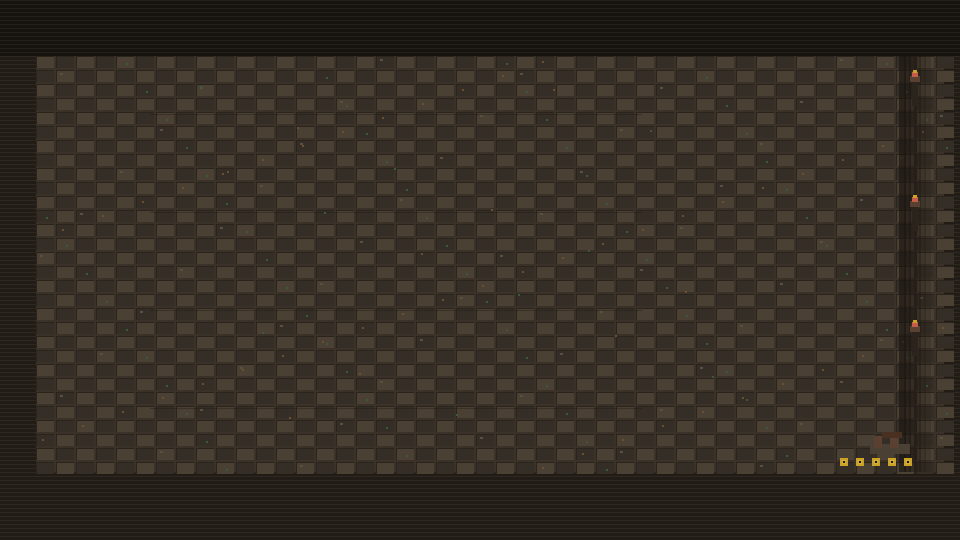
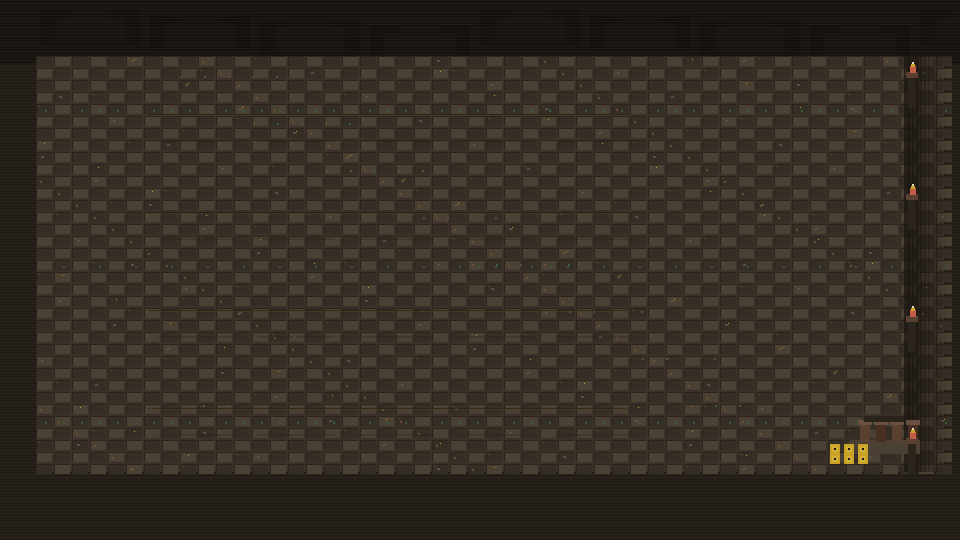
v1.5.0 銀樓防衛：場景四層／加厚場景／停牌符精靈

diff --git a/js/render.js b/js/render.js
@@ -1,6 +1,6 @@
 /**
- * 銀樓防衛 — Canvas 繪製 v1.4.0
- * v1.4：擊破墨塵／暴擊斬線；場景 PNG 可選；敵方正式精靈齊
+ * 銀樓防衛 — Canvas 繪製 v1.5.0
+ * v1.5：場景四層 ground→mid→wall→props；halt_seal PNG；擊破／暴擊
  */
 (function (global) {
   const { COLORS, GRID, CORE, HEROES, ENEMIES, MAX_STAR, upgradeLabel } = global.YD;
@@ -150,24 +150,44 @@
     return c;
   }
 
+  function sceneReady(name) {
+    try {
+      const Spr = global.YDSprites;
+      return !!(Spr && Spr.getScene && Spr.getScene(name));
+    } catch (_) {
+      return false;
+    }
+  }
+
+  function drawSceneLayer(ctx, name, w, h) {
+    try {
+      const Spr = global.YDSprites;
+      const img = Spr && Spr.getScene && Spr.getScene(name);
+      if (!img) return false;
+      ctx.imageSmoothingEnabled = false;
+      ctx.drawImage(img, 0, 0, w, h);
+      return true;
+    } catch (_) {
+      return false;
+    }
+  }
+
   function drawBackground(ctx, w, h, state) {
     const t = (state && state._animT) || 0;
-    // 場景分層：battle_ground → core_wall；缺任一則回退程式像素底
+    // 場景分層：ground → mid → core_wall；缺 ground／wall 則回退程式像素底
+    // mid 可選；props 喺單位之後畫
     (function drawSceneOrProc() {
-      try {
-        const Spr = global.YDSprites;
-        const ground = Spr && Spr.getScene && Spr.getScene('battle_ground');
-        const wall = Spr && Spr.getScene && Spr.getScene('core_wall');
-        if (ground && wall) {
-          ctx.imageSmoothingEnabled = false;
-          ctx.drawImage(ground, 0, 0, w, h);
-          ctx.drawImage(wall, 0, 0, w, h);
-          return;
-        }
-      } catch (_) {}
+      const groundOk = sceneReady('battle_ground');
+      const wallOk = sceneReady('core_wall');
+      if (groundOk && wallOk) {
+        drawSceneLayer(ctx, 'battle_ground', w, h);
+        drawSceneLayer(ctx, 'battle_mid', w, h); // 缺檔略過
+        drawSceneLayer(ctx, 'core_wall', w, h);
+        return;
+      }
       ctx.drawImage(ensureBgCache(w, h), 0, 0);
     })();
-    // 動態火把閃爍（輕量）
+    // 動態火把閃爍（輕量；PNG／程式底都加）
     const floorTop = GRID.originY - 14;
     const floorBot = GRID.originY + GRID.lanes * (GRID.cellH + GRID.gapY) + 10;
     const wallX = 108;
@@ -181,13 +201,21 @@
     }
   }
 
+  function drawSceneProps(ctx, w, h) {
+    // 前景 props：單位／FX 之後；缺檔略過
+    drawSceneLayer(ctx, 'battle_props', w, h);
+  }
+
   function drawCore(ctx, state) {
     const { x, y } = CORE;
     const hp = state.coreHp;
     const maxHp = state.coreMax;
     const flash = state.coreHitFlash || 0;
     const t = state._animT || 0;
+    const useSceneWall = sceneReady('core_wall') && sceneReady('battle_ground');
 
+    // 有 core_wall PNG 時略過靜態樓體（由場景層負責），只留動態
+    if (!useSceneWall) {
     // 基座石階
     drawPixelRect(ctx, x - 42, y + 28, 84, 18, '#4A4034');
     drawPixelRect(ctx, x - 38, y + 24, 76, 6, '#5A5040');
@@ -238,6 +266,7 @@
     }
     // 匾額陰影
     drawPixelRect(ctx, x - 22, y - 66, 44, 2, '#1A1510');
+    } // end !useSceneWall static building
 
     // 燈籠微動
     const bob = Math.sin(t * 3) * 1.5;
@@ -1049,12 +1078,13 @@
       const mag = Math.min(state.reduceShake ? 3 : 6, state.shake * (state.reduceShake ? 14 : 28));
       ctx.translate((Math.random() - 0.5) * mag, (Math.random() - 0.5) * mag);
     }
-    drawBackground(ctx, w, h, state);
-    drawCore(ctx, state);
+    drawBackground(ctx, w, h, state); // ground → mid → wall（或缺檔程式底）
+    drawCore(ctx, state); // 場景齊則只動態；否則全畫
     drawGrid(ctx, state);
     for (const e of state.enemies) drawEnemy(ctx, e, state);
     drawDragGhost(ctx, state);
     drawFx(ctx, state);
+    drawSceneProps(ctx, w, h); // 前景 props（缺檔略過）
     drawModStrip(ctx, state);
     drawEventBanner(ctx, state);
     drawBossBanner(ctx, state);

diff --git a/index.html b/index.html
@@ -5,8 +5,8 @@
   <meta name="viewport" content="width=device-width, initial-scale=1, maximum-scale=1, user-scalable=no, viewport-fit=cover" />
   <meta name="mobile-web-app-capable" content="yes" />
   <meta name="apple-mobile-web-app-capable" content="yes" />
-  <title>銀樓防衛 v1.4.0</title>
-  <link rel="stylesheet" href="css/style.css?v=1.4.0" />
+  <title>銀樓防衛 v1.5.0</title>
+  <link rel="stylesheet" href="css/style.css?v=1.5.0" />
 </head>
 <body>
   <div id="app">
@@ -32,7 +32,7 @@
       <div id="speed-bar" class="tool-bar inline" aria-label="速度"></div>
     </div>
     <div id="shop"></div>
-    <p class="hint" id="hint">v1.4.0｜戰鬥手感｜敵方精靈齊｜市況加厚</p>
+    <p class="hint" id="hint">v1.5.0｜場景四層｜停牌符精靈｜加厚場景</p>
     <div id="orient-hint" class="orient-hint" aria-hidden="true">
       <div class="orient-card">
         <div class="orient-icon" aria-hidden="true">▭ → ▭</div>
@@ -42,12 +42,12 @@
       </div>
     </div>
   </div>
-  <script src="js/audio.js?v=1.4.0"></script>
-  <script src="js/data.js?v=1.4.0"></script>
-  <script src="js/battle.js?v=1.4.0"></script>
-  <script src="js/sprites.js?v=1.4.0"></script>
-  <script src="js/render.js?v=1.4.0"></script>
-  <script src="js/ui.js?v=1.4.0"></script>
-  <script src="js/game.js?v=1.4.0"></script>
+  <script src="js/audio.js?v=1.5.0"></script>
+  <script src="js/data.js?v=1.5.0"></script>
+  <script src="js/battle.js?v=1.5.0"></script>
+  <script src="js/sprites.js?v=1.5.0"></script>
+  <script src="js/render.js?v=1.5.0"></script>
+  <script src="js/ui.js?v=1.5.0"></script>
+  <script src="js/game.js?v=1.5.0"></script>
 </body>
 </html>

diff --git a/js/data.js b/js/data.js
@@ -1,5 +1,5 @@
 /**
- * 銀樓防衛 — 靜態資料 v1.4.0
+ * 銀樓防衛 — 靜態資料 v1.5.0
  * 角色為原創綽號，影射金融江湖氣氛；唔用真人真名／金庸名／Fortias IP。
  */
 (function (global) {
@@ -1852,7 +1852,7 @@
 
   function defaultSave() {
     return {
-      version: 14,
+      version: 15,
       totalSilver: 0,
       totalKills: 0,
       maxStageCleared: 0,
@@ -1884,7 +1884,7 @@
 
   function exportSaveJson(save) {
     const payload = {
-      meta: { game: 'yinlou-defense', exportedAt: new Date().toISOString(), version: save.version || 14 },
+      meta: { game: 'yinlou-defense', exportedAt: new Date().toISOString(), version: save.version || 15 },
       save: { ...defaultSave(), ...save },
     };
     return JSON.stringify(payload, null, 2);
@@ -1895,7 +1895,7 @@
     const body = data && data.save ? data.save : data;
     if (!body || typeof body !== 'object') throw new Error('無效存檔');
     const merged = { ...defaultSave(), ...body };
-    merged.version = Math.max(14, merged.version || 14);
+    merged.version = Math.max(15, merged.version || 15);
     if (!merged.weekDailyMap) merged.weekDailyMap = {};
     if (!merged.firstClears) merged.firstClears = {};
     if (!merged.seenHeroes) merged.seenHeroes = {};

diff --git a/js/sprites.js b/js/sprites.js
@@ -1,13 +1,13 @@
 /**
- * 銀樓防衛 — 正式 PNG 精靈載入（有就用、無就幾何 fallback）v1.4.0
+ * 銀樓防衛 — 正式 PNG 精靈載入（有就用、無就幾何 fallback）v1.5.0
  * sheet 96×48：frame0 idle／frame1 attack；亦可 *_attack.png
- * v1.4：cache-bust、尺寸校驗、loading 等待、missing 可重試、動態收齊 HEROES/ENEMIES id
+ * v1.5：場景 mid／props；halt_seal PNG；cache-bust／尺寸校驗／missing 重試／動態 id
  */
 (function (global) {
   const BASE = 'assets/sprites/';
   const SCENE_BASE = 'assets/scenes/';
   const FRAME = 48;
-  const CACHE_VER = '1.4.0';
+  const CACHE_VER = '1.5.0';
   const KNOWN_IDS = [
     'long_bull',
     'short_blade',
@@ -233,9 +233,11 @@
         retryMissing().catch(function () {});
       }, 2500);
     }).catch(function () {});
-    // 場景分層可選；缺檔唔嘈
+    // 場景分層可選；缺檔唔嘈（ground／mid／wall／props）
     ensureScene('battle_ground').catch(function () {});
+    ensureScene('battle_mid').catch(function () {});
     ensureScene('core_wall').catch(function () {});
+    ensureScene('battle_props').catch(function () {});
   }
 
   if (document.readyState === 'loading') {

diff --git a/js/ui.js b/js/ui.js
@@ -1,5 +1,5 @@
 /**
- * 銀樓防衛 — HUD／商店／Toast／設定／圖鑑／成就／陣容／存檔／強化 v1.4.0
+ * 銀樓防衛 — HUD／商店／Toast／設定／圖鑑／成就／陣容／存檔／強化 v1.5.0
  */
 (function (global) {
   const {
@@ -84,7 +84,7 @@
       ink +
       '"></i>' +
       gear;
-    const src = (window.YDSprites && window.YDSprites.urlFor) ? window.YDSprites.urlFor(def.id) : ('assets/sprites/' + def.id + '.png?v=1.4.0');
+    const src = (window.YDSprites && window.YDSprites.urlFor) ? window.YDSprites.urlFor(def.id) : ('assets/sprites/' + def.id + '.png?v=1.5.0');
     return (
       '<span class="hero-avatar" aria-hidden="true" data-hero="' +
       def.id +

diff --git a/js/game.js b/js/game.js
@@ -1,6 +1,6 @@
 /**
- * 銀樓防衛 — 主循環 v1.4.0
- * v1.4.0：戰鬥手感／敵方精靈齊（傳聞蚊＋暗盤影）／市況加厚／精靈載入邊角
+ * 銀樓防衛 — 主循環 v1.5.0
+ * v1.5.0：場景四層 ground→mid→wall→props；停牌符 PNG；加厚場景
  */
 (function () {
   const {
@@ -90,6 +90,10 @@
   }
   if (save.version < 14) {
     save.version = 14;
+    writeSave(save);
+  }
+  if (save.version < 15) {
+    save.version = 15;
     writeSave(save);
   }
   if (!save.weekDailyMap) save.weekDailyMap = {};

diff --git a/js/battle.js b/js/battle.js
@@ -1,5 +1,5 @@
 /**
- * 銀樓防衛 — 戰鬥／生成／合併邏輯 v1.4.0
+ * 銀樓防衛 — 戰鬥／生成／合併邏輯 v1.5.0
  * v1.4：擊退／超殺／擊破爆點／陣亡墨塵
  */
 (function (global) {

diff --git a/js/audio.js b/js/audio.js
@@ -1,5 +1,5 @@
 /**
- * 銀樓防衛 — Web Audio 極簡蜂鳴 v1.4.0
+ * 銀樓防衛 — Web Audio 極簡蜂鳴 v1.5.0
  * 可關；正式 ogg／wav 仍後備。
  */
 (function (global) {

diff --git a/ART.md b/ART.md
@@ -1,4 +1,4 @@
-# 銀樓防衛 — 美術短規範（v1.4）
+# 銀樓防衛 — 美術短規範（v1.5）
 
 ## 風格名
 **墨點金融江湖（Ink-Pixel Finance）**：宣紙底、墨點色塊、硬邊直角、統一點陣。質感密度可對齊市面 Merge TD／Fortias 級**可讀性**，但**原創構圖與造型，唔抄 IP**。
@@ -70,9 +70,14 @@
 - 正式 PNG 精靈仍後備（建議下輪若繼續加厚角色密度，可申請專職像素美術幫手）
 
 
-## 精靈（v1.4 正式 PNG）
+## 精靈（v1.5 正式 PNG）
 - 路徑：`assets/sprites/{id}.png`（idle）、`{id}_attack.png`、`{id}_sheet.png`（96×48＝idle|attack）
 - 載入：`js/sprites.js`；有圖用圖、無圖／載入失敗 → 幾何剪影 fallback（唔硬依賴）
 - 商店頭像：idle PNG；`onerror` 回幾何
 - 首輪見 `assets/sprites/MANIFEST.md`（墨點銀樓）；`_round1_roster*` 僅 QA，gitignore
-- 未交貨 id（`rumor_swarm`／`dark_tape`／`halt_seal`）繼續色塊；`arb_walker`／`night_broker`／`dip_buyer` 已有 PNG 一併接入
+- 敵方含 `rumor_swarm`／`dark_tape`／`halt_seal` 已齊；俠 11 齊。場景四層見 `assets/scenes/MANIFEST.md`
+
+## 場景分層（v1.5）
+- `assets/scenes/battle_ground.png`／`battle_mid.png`／`core_wall.png`／`battle_props.png`（960×540）
+- 疊加：ground → mid → wall → 單位／FX → props；動態火把／燈籠／受擊／HP 仍程式
+

diff --git a/assets/scenes/MANIFEST.md b/assets/scenes/MANIFEST.md
@@ -2,9 +2,18 @@
 
 Canvas **960×540**，硬邊／嚴格色盤，PNG RGBA。
 
+建議疊加（後畫喺上）：
+`battle_ground` → `battle_mid` → `core_wall` → （單位／FX）→ `battle_props`
+
 | 檔 | 內容 | 動態留給程式 |
 |----|------|--------------|
-| `battle_ground.png` | 遠景雲、宣紙底、磚地、lane 線、右出生陰影、拒馬、右燈柱、銅錢紋 | — |
-| `core_wall.png` | 左木牆／火盆柱／旗／箱、銀樓核心牆體瓦簷匾額門窗石柱燈籠靜態位 | 火把閃、燈籠 bob、核心受擊閃、HP 條 |
+| `battle_ground.png` | 遠景雲、磚地、lane、右出生陰影、燈柱、銅錢紋 | — |
+| `battle_mid.png` | 中景霧／橫梁、格角標、路牌告示 | — |
+| `core_wall.png` | 左木牆、銀樓核心靜態 | 火把閃、燈籠 bob、受擊閃、HP |
+| `battle_props.png` | 前景拒馬尖、落葉帶、錢袋、邊柱影 | — |
 
-預覽：`_preview_stack.png`（僅 QA）。疊加順序：ground → core_wall → 單位／FX。
+預覽：`_preview_stack.png`（僅 QA）。`battle_mid`／`battle_props` 需程式加載入位先會顯示。
+
+## v1.5
+- 加厚 `battle_ground`／`core_wall`；新增 `battle_mid`／`battle_props`。
+- 程式疊加：ground → mid → wall → 單位／FX → props；缺 ground／wall 回退程式底，mid／props 缺則略過。

diff --git a/CHANGELOG.md b/CHANGELOG.md
@@ -1,5 +1,11 @@
 # Changelog
 
+## v1.5.0 — 2026-11-05
+- **場景四層**：`battle_ground` → `battle_mid` → `core_wall` → 單位／FX → `battle_props`；缺 ground／wall 回退程式像素底，mid／props 缺檔略過；有 wall 時核心靜態改由 PNG，火把／燈籠／受擊／HP 仍程式畫
+- **場景加厚**：覆寫加厚 `battle_ground`／`core_wall`；新層 `battle_mid`／`battle_props`
+- **精靈**：接入**停牌符** `halt_seal` 正式 PNG（idle／attack／sheet）；敵方正式精靈全齊（11 俠＋9 敵）
+- 存檔 **version 15**；DESIGN／ART／README／MANIFEST 同步；Pages title／`?v=1.5.0` → v1.5.0（`pages-clean`）
+
 ## v1.4.0 — 2026-11-05
 - **精靈**：接入 **傳聞蚊** `rumor_swarm`、**暗盤影** `dark_tape` 正式 PNG（idle／attack／sheet）；敵方正式精靈而家齊（停牌符 `halt_seal` 仍幾何 fallback）；商店頭像跟 `YDSprites.urlFor` cache-bust
 - **場景分層**：接入 `assets/scenes/battle_ground.png`＋`core_wall.png`（960×540）；有齊就取代程式像素底，火把／受擊／單位／FX 仍由程式畫；缺檔回退舊底

diff --git a/README.md b/README.md
@@ -29,13 +29,13 @@ python3 -m http.server 8765
 ## 技術
 - 純前端 Vanilla JS，無框架
 - Canvas 960×540，pixelated
-- 存檔：`localStorage` key `yinlou-defense-save-v1`（version 14；可 JSON 匯出／匯入）
+- 存檔：`localStorage` key `yinlou-defense-save-v1`（version 15；可 JSON 匯出／匯入）
 
 ## 版本
-而家 **v1.4.0**（戰鬥手感加厚＋敵方正式精靈齊＋市況／成就小加厚；成就 32；音檔仍後補）。詳見 `CHANGELOG.md`、`DESIGN.md`。
+而家 **v1.5.0**（場景四層＋加厚場景＋停牌符正式精靈；成就 31；音檔仍後補）。詳見 `CHANGELOG.md`、`DESIGN.md`。
 
 ### 已知問題／後補
-- 戰場已接**場景分層 PNG**（ground／core_wall）；俠 11＋敵 8 正式 PNG 已齊；`halt_seal` 走幾何 fallback。
+- 戰場已接**場景四層 PNG**（ground／mid／wall／props）；俠 11＋敵 9 正式 PNG 全齊（含停牌符）。
 - 音效為 Web Audio 蜂鳴，非正式採樣／BGM。
 
 ## 授權說明
